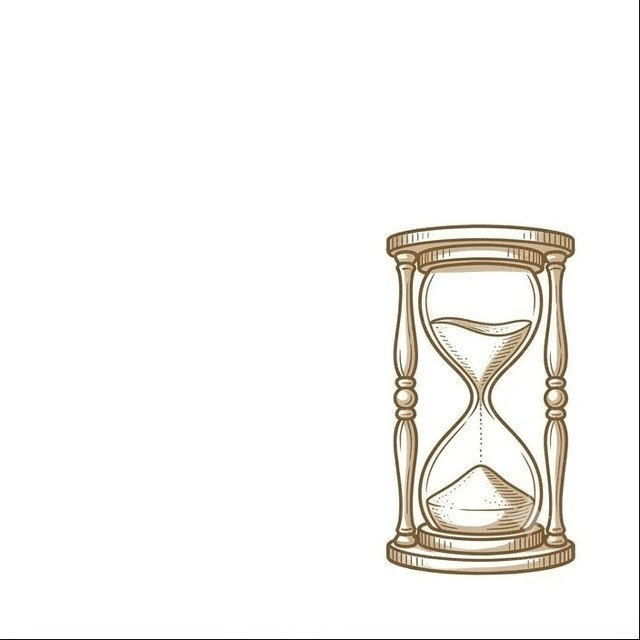
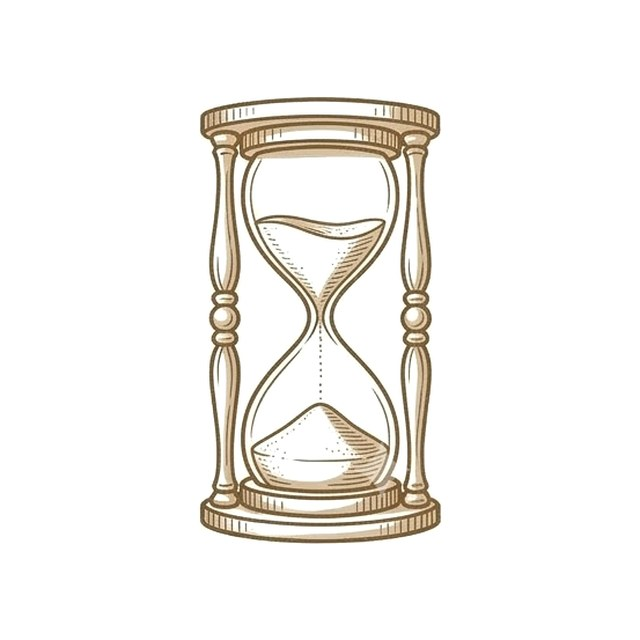
Иллюстрации: квадратный кроп, крупнее в правилах, выше разделителя
Перекадрирование всех десяти: квадрат 1:1, предмет по центру, 70% кадра
по большей стороне. Точка белого по медиане поля плюс добивка светов —
кремовая подложка исходников уходит в чистый белый и не читается
прямоугольником под умножением. Кроп больше не выходит за холст.

Правила: область иллюстрации 96 → 140px, отступ до заголовка 16 → 24px.

Плитки тарифов: иллюстрация поднята в зону над разделительной линией,
размер и прижатие к правому краю сохранены.

Changed region(s): [[0.3125, 0.125, 0.9062, 0.9062], [0.7812, 0.6562, 0.8125, 0.6875]]

diff --git a/components/TariffTile.tsx b/components/TariffTile.tsx
@@ -24,19 +24,29 @@ const ROWS = 'grid-rows-[2rem_1.5rem_1.5rem_2.5rem_auto]'
 const GLYPH_SIDE = 320
 
 /**
- * Иллюстрация тарифа фоном в правом нижнем углу. Светлый фон исходника
- * растворяется умножением, альфа не вырезается.
+ * Высота зоны иллюстрации: от верха плитки до разделительной линии перед
+ * ценой. Складывается из строк ROWS с отступами и верхнего padding.
+ */
+const GLYPH_ZONE = 'h-[9.5rem]'
+
+/**
+ * Иллюстрация тарифа фоном в правом верхнем поле, целиком над разделителем.
+ * Светлый фон исходника растворяется умножением, альфа не вырезается.
  */
 function Glyph({ tariff, width }: { tariff: Tariff; width: string }) {
   return (
-    <Image
-      src={tariff.image}
-      alt=""
+    <span
       aria-hidden
-      width={GLYPH_SIDE}
-      height={GLYPH_SIDE}
-      className={`pointer-events-none absolute bottom-0 right-0 ${width} object-contain opacity-15 mix-blend-multiply`}
-    />
+      className={`pointer-events-none absolute right-0 top-0 ${width} ${GLYPH_ZONE} block`}
+    >
+      <Image
+        src={tariff.image}
+        alt=""
+        width={GLYPH_SIDE}
+        height={GLYPH_SIDE}
+        className="h-full w-full object-contain object-right-bottom opacity-15 mix-blend-multiply"
+      />
+    </span>
   )
 }
 

diff --git a/components/RuleIcon.tsx b/components/RuleIcon.tsx
@@ -1,6 +1,6 @@
 import Image from 'next/image'
 
-const ICON_SIDE = 192
+const ICON_SIDE = 280
 
 /**
  * Иллюстрация правила. Фон у исходников светлый и разный, поэтому вместо
@@ -8,7 +8,7 @@ const ICON_SIDE = 192
  */
 export function RuleIcon({ src, alt = '' }: { src?: string; alt?: string }) {
   return (
-    <div className={`relative h-24 w-24 overflow-hidden ${src ? '' : 'bg-paper-shade'}`}>
+    <div className={`relative h-[8.75rem] w-[8.75rem] overflow-hidden ${src ? '' : 'bg-paper-shade'}`}>
       {src && (
         <Image
           src={src}

diff --git a/components/Rules.tsx b/components/Rules.tsx
@@ -17,7 +17,7 @@ export function Rules() {
           {rules.map((rule) => (
             <article key={rule.id}>
               <RuleIcon src={rule.image} alt={rule.title} />
-              <h3 className="mt-4 text-sm font-medium leading-tight text-ink">{rule.title}</h3>
+              <h3 className="mt-6 text-sm font-medium leading-tight text-ink">{rule.title}</h3>
               <p className="mt-2 text-sm leading-relaxed text-muted">{rule.text}</p>
             </article>
           ))}
